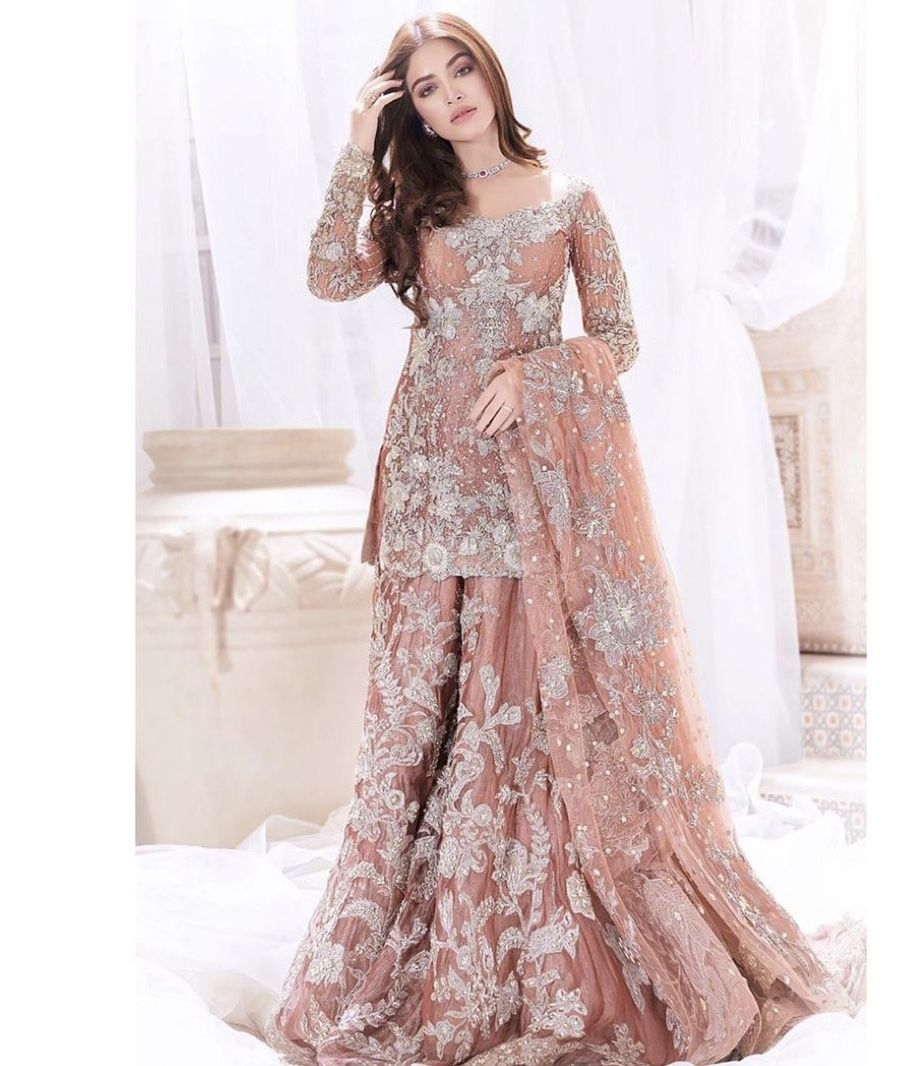
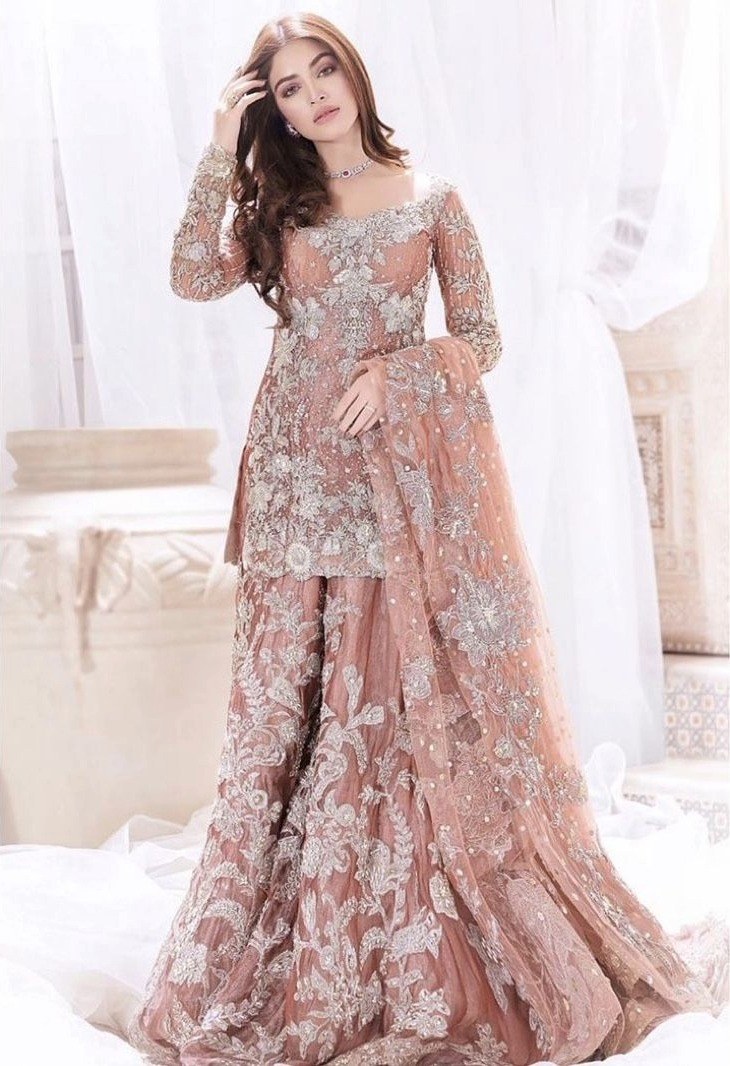
home page set according to frigma

diff --git a/home.html b/home.html
@@ -1706,9 +1706,9 @@
     </section>
 
     <!-- Royal Bridal Lehenga -->
-    <section class="max-w-7xl mx-auto">
+    <section>
       <div class="grid grid-cols-1 lg:grid-cols-12 gap-6">
-        <!-- LEFT IMAGE (moves below title on mobile naturally) -->
+        <!-- LEFT IMAGE -->
         <div class="lg:col-span-5 order-2 lg:order-1">
           <img
             src="images/bridal-main.jpg"
@@ -1718,11 +1718,10 @@
 
         <!-- RIGHT SIDE -->
         <div class="lg:col-span-7 order-1 lg:order-2">
-          <!-- TITLE + CONTROLS (TOP ON MOBILE) -->
+          <!-- TITLE + CONTROLS -->
           <div
             class="my-6 sm:my-8 mx-2 sm:mx-4 flex items-center justify-between"
           >
-            <!-- Left Side -->
             <h2
               class="text-2xl sm:text-3xl lg:text-[33px] font-normal text-[#221E1B] leading-tight"
               style="font-family: &quot;Abril Fatface&quot;, serif"
@@ -1730,7 +1729,6 @@
               Royal Bridal Lehenga
             </h2>
 
-            <!-- Right Side -->
             <div class="flex items-center gap-4">
               <a
                 class="sm:text-sm md:text-[20px] font-light text-[#303030] cursor-pointer"
@@ -1811,7 +1809,9 @@
             Premium Fabric
           </h3>
 
-          <p class="mt-1 font-['Inter'] text-xs sm:text-sm lg:text-[15px] text-[#818181]">
+          <p
+            class="mt-1 font-['Inter'] text-xs sm:text-sm lg:text-[15px] text-[#818181]"
+          >
             Curated from finest mills worldwide
           </p>
         </div>
@@ -1843,7 +1843,9 @@
             Custom Tailoring
           </h3>
 
-          <p class="mt-1 font-['Inter'] text-xs sm:text-sm lg:text-[15px] text-[#818181]">
+          <p
+            class="mt-1 font-['Inter'] text-xs sm:text-sm lg:text-[15px] text-[#818181]"
+          >
             Made-to-measure for your perfect fit
           </p>
         </div>
@@ -1879,7 +1881,9 @@
             Worldwide Delivery
           </h3>
 
-          <p class="mt-1 font-['Inter'] text-xs sm:text-sm lg:text-[15px] text-[#818181]">
+          <p
+            class="mt-1 font-['Inter'] text-xs sm:text-sm lg:text-[15px] text-[#818181]"
+          >
             Express shipping to 50+ countries
           </p>
         </div>
@@ -1916,7 +1920,9 @@
             Easy Returns
           </h3>
 
-          <p class="mt-1 font-['Inter'] text-xs sm:text-sm lg:text-[15px] text-[#818181]">
+          <p
+            class="mt-1 font-['Inter'] text-xs sm:text-sm lg:text-[15px] text-[#818181]"
+          >
             30-day hassle-free return policy
           </p>
         </div>
@@ -1925,7 +1931,7 @@
 
     <!-- SOCIAL PROOF -->
     <section>
-      <div class="px-4">
+      <div class="">
         <!-- Heading -->
         <div class="my-8 text-center flex flex-col items-center">
           <small
@@ -1948,70 +1954,49 @@
         </div>
 
         <!-- Gallery (FIXED MOBILE SCROLL ISSUE) -->
-        <div
-          class="mb-4 flex justify-start sm:justify-center gap-3 sm:gap-4 overflow-x-auto px-2 sm:px-4 scrollbar-hide scroll-pl-4"
-        >
-          <div
-            class="w-[140px] sm:w-[220px] h-[220px] sm:h-[420px] rounded-2xl overflow-hidden flex-shrink-0"
-          >
+        <div id="lookScroll" class="flex overflow-x-auto scrollbar-hide gap-3">
+          <div class="w-1/6 flex-shrink-0">
             <img
               src="images/look1.jpg"
-              class="w-full h-full object-cover"
-              alt=""
+              class="w-full h-[340px] sm:h-[350px] object-cover object-[50%_5%] rounded-xl"
             />
           </div>
 
-          <div
-            class="w-[140px] sm:w-[220px] h-[220px] sm:h-[420px] rounded-2xl overflow-hidden flex-shrink-0"
-          >
+          <div class="w-1/6 flex-shrink-0">
             <img
               src="images/look2.jpg"
-              class="w-full h-full object-cover"
-              alt=""
+              class="w-full h-[340px] sm:h-[350px] object-cover object-[50%_5%] rounded-xl"
             />
           </div>
 
-          <div
-            class="w-[140px] sm:w-[220px] h-[220px] sm:h-[420px] rounded-2xl overflow-hidden flex-shrink-0"
-          >
+          <div class="w-1/6 flex-shrink-0">
             <img
               src="images/look3.jpg"
-              class="w-full h-full object-cover"
-              alt=""
+              class="w-full h-[340px] sm:h-[350px] object-cover object-[50%_5%] rounded-xl"
             />
           </div>
 
-          <div
-            class="w-[140px] sm:w-[220px] h-[220px] sm:h-[420px] rounded-2xl overflow-hidden flex-shrink-0"
-          >
+          <div class="w-1/6 flex-shrink-0">
             <img
               src="images/look4.jpg"
-              class="w-full h-full object-cover"
-              alt=""
+              class="w-full h-[340px] sm:h-[350px] object-cover object-[50%_5%] rounded-xl"
             />
           </div>
 
-          <div
-            class="w-[140px] sm:w-[220px] h-[220px] sm:h-[420px] rounded-2xl overflow-hidden flex-shrink-0"
-          >
+          <div class="w-1/6 flex-shrink-0">
             <img
               src="images/look5.jpg"
-              class="w-full h-full object-cover"
-              alt=""
+              class="w-full h-[340px] sm:h-[350px] object-cover object-[50%_5%] rounded-xl"
             />
           </div>
 
-          <div
-            class="w-[140px] sm:w-[220px] h-[220px] sm:h-[420px] rounded-2xl overflow-hidden flex-shrink-0"
-          >
+          <div class="w-1/6 flex-shrink-0">
             <img
               src="images/look6.jpg"
-              class="w-full h-full object-cover"
-              alt=""
+              class="w-full h-[340px] sm:h-[350px] object-cover object-[50%_5%] rounded-xl"
             />
           </div>
         </div>
-
         <!-- Dots -->
         <div class="flex items-center justify-center gap-2 mt-6">
           <span class="w-8 sm:w-11 h-2 rounded-full bg-[#B89B5E]"></span>
@@ -4046,83 +4031,79 @@
     <script>
       const products = [
         { img: "images/gold.jpg", name: "Gold", price: "Rs. 950,000" },
-        { img: "images/lilac.jpg", name: "Lilac", price: "Rs. 950,000" },
-        { img: "images/rosegold.jpg", name: "Rose Gold", price: "Rs. 950,000" },
-
-        { img: "images/rosegold.jpg", name: "Red", price: "Rs. 950,000" },
-        { img: "images/gold.jpg", name: "Green", price: "Rs. 950,000" },
-        { img: "images/lilac.jpg", name: "Blue", price: "Rs. 950,000" },
+        { img: "images/lilac.jpg", name: "Lilac", price: "Rs. 850,000" },
+        { img: "images/rosegold.jpg", name: "Rose Gold", price: "Rs. 750,000" },
+        { img: "images/gold.jpg", name: "Red", price: "Rs. 650,000" },
+        { img: "images/lilac.jpg", name: "Green", price: "Rs. 550,000" },
+        { img: "images/rosegold.jpg", name: "Blue", price: "Rs. 450,000" },
+        { img: "images/gold.jpg", name: "White", price: "Rs. 350,000" },
+        { img: "images/lilac.jpg", name: "Blace", price: "Rs. 250,000" },
+        { img: "images/rosegold.jpg", name: "Pink", price: "Rs. 150,000" },
       ];
 
       let startIndex = 0;
-      const perPage = 3;
+      const visibleItems = 3;
 
       const container = document.getElementById("cardContainer");
       const progressBar = document.getElementById("progressBar");
       const barContainer = document.getElementById("barContainer");
 
-      const totalGroups = Math.ceil(products.length / perPage);
+      const totalGroups = products.length;
 
       function render() {
         container.innerHTML = "";
 
-        const slice = products.slice(startIndex, startIndex + perPage);
+        for (let i = 0; i < visibleItems; i++) {
+          const index = (startIndex + i) % products.length;
+          const p = products[index];
 
-        slice.forEach((p) => {
           container.innerHTML += `
-            <div>
-                <div class="overflow-hidden rounded-[28px]">
-                    <img src="${p.img}" class="w-full h-64 md:h-[430px] object-cover">
-                </div>
-                <h3
-                class="mt-3 text-[22px] font-light leading-[100%] tracking-[0px] text-[#575757]"
-                style="font-family: 'Inter', sans-serif;">
-                ${p.name}
-                </h3>
-                <p class="text-[#303030] font-normal mt-2 text-[19.34px] leading-[100%]"
-                style="font-family: 'Abril Fatface', serif">${p.price}</p>
-            </div>
-        `;
-        });
+        <div>
+          <div class="overflow-hidden rounded-[28px]">
+            <img src="${p.img}" class="w-full h-64 md:h-[430px] object-cover">
+          </div>
+
+          <h3
+            class="mt-3 text-[22px] font-light text-[#575757]"
+            style="font-family: 'Inter', sans-serif;"
+          >
+            ${p.name}
+          </h3>
+
+          <p
+            class="text-[#303030] font-normal mt-2 text-[19.34px]"
+            style="font-family: 'Abril Fatface', serif"
+          >
+            ${p.price}
+          </p>
+        </div>
+      `;
+        }
 
         updateProgress();
       }
 
       function updateProgress() {
-        const currentGroup = startIndex / perPage;
-        const percent = ((currentGroup + 1) / totalGroups) * 100;
+        const percent = ((startIndex + 1) / products.length) * 100;
         progressBar.style.width = percent + "%";
       }
 
       function nextGroup() {
-        if (startIndex + perPage < products.length) {
-          startIndex += perPage;
-        } else {
-          startIndex = 0;
-        }
+        startIndex = (startIndex + 1) % products.length;
         render();
       }
 
       function prevGroup() {
-        if (startIndex - perPage >= 0) {
-          startIndex -= perPage;
-        } else {
-          startIndex = (totalGroups - 1) * perPage;
-        }
+        startIndex = (startIndex - 1 + products.length) % products.length;
         render();
       }
 
-      // CLICK ON PROGRESS BAR
       barContainer.addEventListener("click", (e) => {
         const rect = barContainer.getBoundingClientRect();
         const clickX = e.clientX - rect.left;
-
         const percent = clickX / rect.width;
 
-        const targetGroup = Math.floor(percent * totalGroups);
-
-        startIndex = targetGroup * perPage;
-
+        startIndex = Math.floor(percent * products.length);
         render();
       });
 
@@ -4182,6 +4163,26 @@
         modal.addEventListener("click", (e) => {
           if (e.target === modal) closeAll();
         });
+      });
+    </script>
+
+    <!-- JS WearCustomsuits -->
+    <script>
+      const slider = document.getElementById("lookScroll");
+
+      // duplicate content
+      slider.innerHTML += slider.innerHTML;
+
+      const halfScroll = () => slider.scrollWidth / 2;
+
+      slider.addEventListener("scroll", () => {
+        const max = halfScroll();
+
+        // when user reaches end of first set
+        if (slider.scrollLeft >= max) {
+          // instantly shift back by same amount (invisible because content is same)
+          slider.scrollLeft -= max;
+        }
       });
     </script>
   </body>
